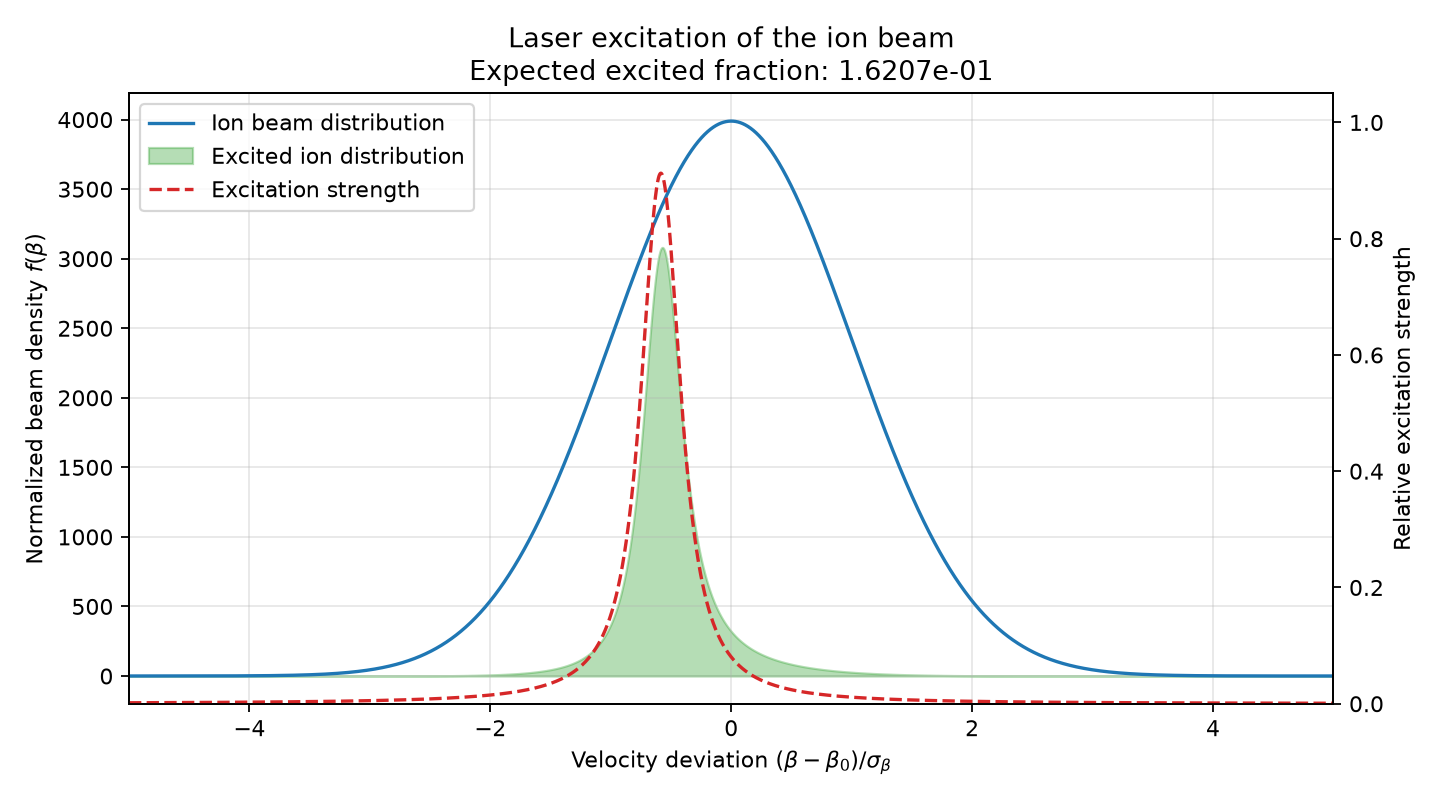
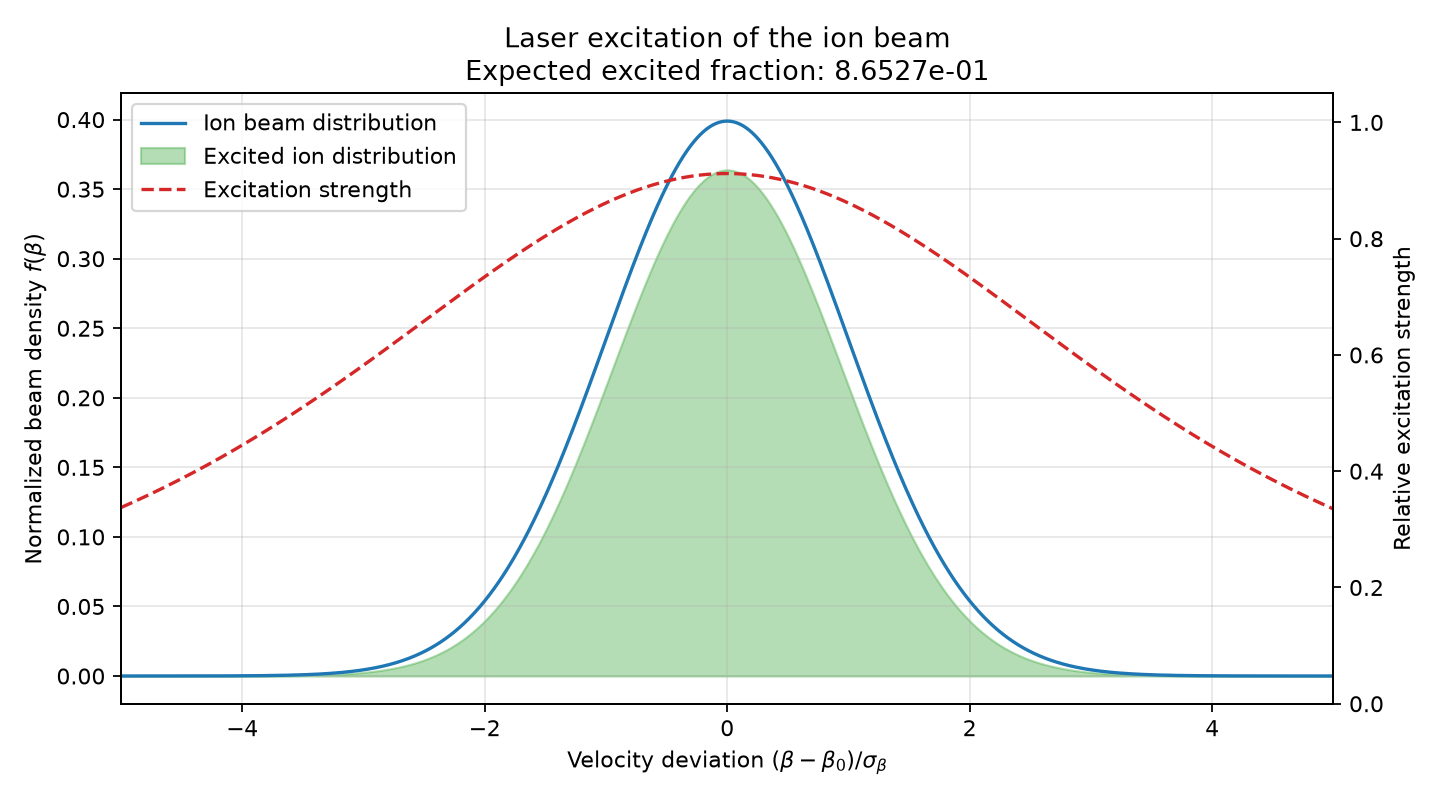
-

diff --git a/src/fluorescence/plotting.py b/src/fluorescence/plotting.py
@@ -206,6 +206,7 @@ def plot_beam_excitation(
     # Normalize in the physical beta interval
     beam /= np.trapezoid(beam, beta)
 
+
     # Excitation strength for each velocity
     #excitation = resonance.excitation_weight(laser, beta)
     excitation = resonance.excitation_weight_broadened(laser, beta)
@@ -219,19 +220,22 @@ def plot_beam_excitation(
     # x-axis in units of beam standard deviation
     x = (beta - beta_center) / beta_sigma
 
+    beam_x = beta_sigma * beam
+    excited_beam_x = beta_sigma * excited_beam
+
     fig, ax1 = plt.subplots(figsize=(9, 5))
 
     # Beam distribution
     ax1.plot(
         x,
-        beam,
+        beam_x,
         color="tab:blue",
         label="Ion beam distribution",
     )
 
     ax1.fill_between(
         x,
-        excited_beam,
+        excited_beam_x,
         color="tab:green",
         alpha=0.35,
         label="Excited ion distribution",

diff --git a/README.md b/README.md
@@ -86,6 +86,7 @@ python -m fluorescence \
 | Parameter | Description | Unit |
 |---|---|---|
 | `--beta` | Ion velocity divided by the speed of light | – |
+| `--beta-sigma` | Standard deviation of the Gaussian ion velocity (beta) distribution | – |
 | `--transition-energy` | Transition energy in the ion rest frame | eV |
 | `--laser-energy` | Central laser photon energy in the laboratory frame | eV |
 | `--laser-energy-sigma` | Standard deviation of the Gaussian laser energy distribution | eV |
